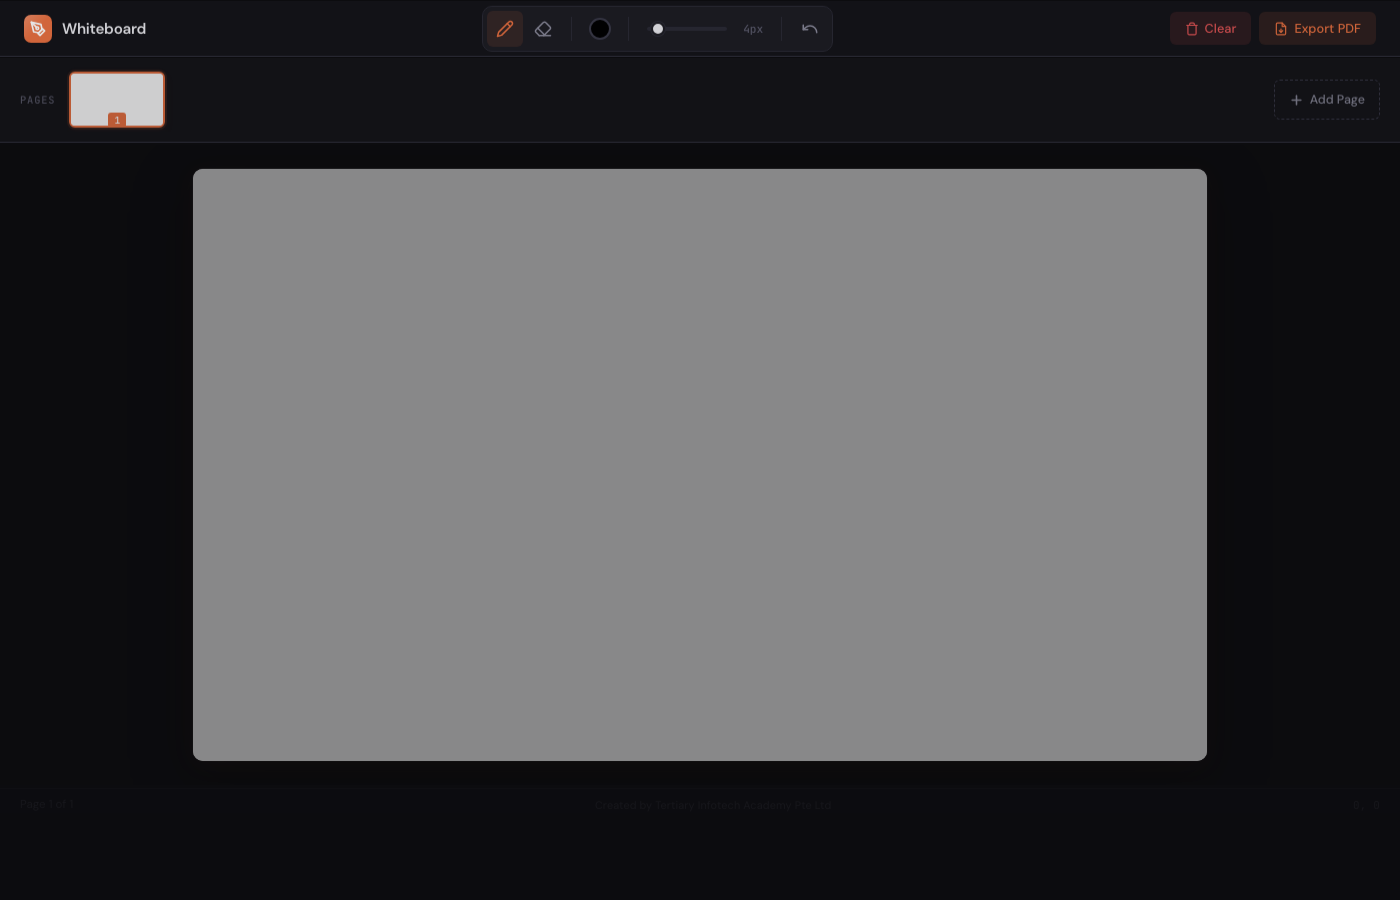
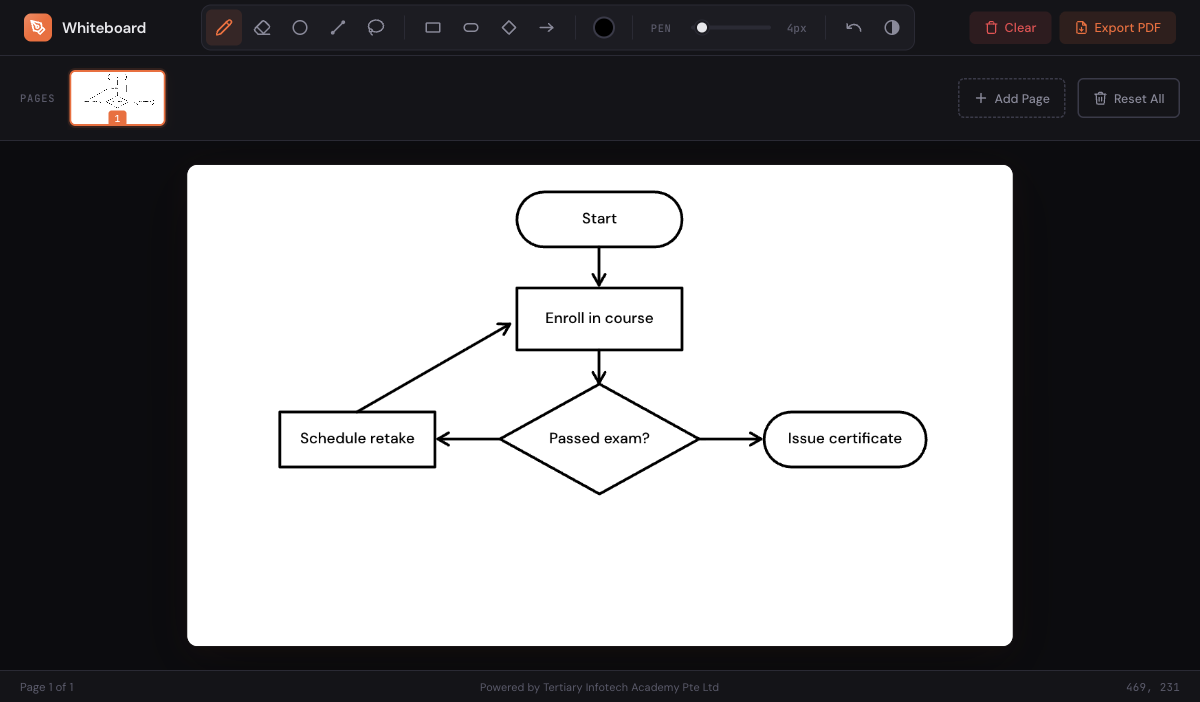
docs: refresh README with new screenshot and feature list
Updates the README to cover the flowchart tools (box, rounded box,
diamond, connector arrows with text labels), line/circle, lasso delete,
eraser size ring, light/dark canvas, and localStorage auto-save. Adds a
fresh preview.png showing a sample flowchart, refreshes the architecture
diagram and keyboard-shortcut table. Also refines the eraser ring to a
dashed circle with mix-blend-mode so it stays visible on both canvases.

diff --git a/styles.css b/styles.css
@@ -634,17 +634,20 @@ canvas.shape-cursor {
   cursor: crosshair;
 }
 
-/* Eraser size indicator — a circle that tracks the cursor over the canvas */
+/* Eraser size indicator — a dashed circle that tracks the cursor and matches
+   the eraser diameter. mix-blend-mode: difference keeps the dashes visible on
+   both the white and black (chalkboard) canvas without any extra logic. */
 .eraser-ring {
   position: absolute;
   display: none;
   z-index: 40;
+  box-sizing: border-box;
   border-radius: 50%;
-  border: 1.5px solid rgba(120, 120, 120, 0.9);
-  background: rgba(180, 180, 180, 0.22);
+  border: 2px dashed #fff;
+  background: transparent;
   pointer-events: none;
   transform: translate(-50%, -50%);
-  box-shadow: 0 0 0 1px rgba(255, 255, 255, 0.5);
+  mix-blend-mode: difference;
 }
 
 .eraser-ring.visible {

diff --git a/README.md b/README.md
@@ -9,7 +9,7 @@
 [![License: MIT](https://img.shields.io/badge/License-MIT-green.svg)](LICENSE)
 [![GitHub Pages](https://img.shields.io/badge/Deploy-GitHub%20Pages-222?logo=github)](https://alfredang.github.io/whiteboard/)
 
-**A minimal, browser-based drawing tool with a dark creative-studio aesthetic. Built for educators and trainers.**
+**A minimal, browser-based whiteboard with freehand drawing and flowchart tools, in a dark creative-studio aesthetic. Built for educators and trainers.**
 
 [Live Demo](https://alfredang.github.io/whiteboard/) · [Report Bug](https://github.com/alfredang/whiteboard/issues) · [Request Feature](https://github.com/alfredang/whiteboard/issues)
 
@@ -21,21 +21,26 @@
 
 ## About
 
-Whiteboard is a lightweight, zero-dependency drawing application designed for classroom and training environments. It runs entirely in the browser with no backend or build step required — just open `index.html` and start drawing.
+Whiteboard is a lightweight, zero-dependency drawing application designed for classroom and training environments. It runs entirely in the browser with no backend or build step required — just open `index.html` and start drawing. Beyond freehand sketching, it includes a set of flowchart tools so you can build labelled diagrams (process boxes, decisions, connectors) right on the board.
 
 ### Key Features
 
 | Feature | Description |
 |---------|-------------|
-| **Multi-page support** | Add, delete, and navigate between pages with live thumbnail previews |
-| **Pen & Eraser** | Drawing tools with keyboard shortcuts (`B` / `E`) |
+| **Freehand pen** | Smooth pressure-friendly drawing with a pencil cursor (`B`) |
+| **Flowchart shapes** | Process box (`R`), rounded terminator (`G`), and decision diamond (`D`) — drag to size, then type a centered, auto-wrapped label |
+| **Connector arrows** | Draw directional arrows to link shapes (`A`) |
+| **Line & circle** | Straight lines (`I`) and ellipses (`O`) with live preview |
+| **Eraser with size ring** | A circle cursor shows the exact eraser size as you erase (`E`) |
+| **Lasso delete** | Encircle any region to wipe it in one stroke (`L`) |
+| **Light / dark canvas** | Toggle between whiteboard and chalkboard modes (`T`) — existing work is inverted to match |
+| **Multi-page support** | Add, delete, navigate, and reset pages with live thumbnail previews |
 | **Color picker** | Full color selection with visual swatch indicator |
-| **Adjustable brush size** | Slider control from 1px to 50px |
+| **Adjustable size** | Per-tool size slider (pen 1–50px, eraser 5–120px) |
 | **Undo** | Per-page undo history (Ctrl/Cmd+Z, up to 30 states) |
 | **PDF export** | All pages exported as a single landscape PDF document |
-| **Page navigation** | PgUp/PgDn or Ctrl+Arrow keys to switch pages |
+| **Auto-save** | Pages persist to `localStorage` across refreshes |
 | **Touch support** | Full touch input for tablets and mobile devices |
-| **Coordinate tracking** | Real-time cursor position in the status bar |
 | **Responsive layout** | Adapts to any screen size with smooth animations |
 
 ## Tech Stack
@@ -52,37 +57,39 @@ Whiteboard is a lightweight, zero-dependency drawing application designed for cl
 ## Architecture
 
 ```
-┌─────────────────────────────────────────────────┐
-│                   Browser                       │
-│                                                 │
-│  ┌──────────┐  ┌────────────┐  ┌────────────┐  │
-│  │  Header   │  │  Page Strip │  │ Status Bar │  │
-│  │  Toolbar  │  │  Thumbnails │  │  Coords    │  │
-│  └────┬─────┘  └──────┬─────┘  └────────────┘  │
-│       │               │                         │
-│       ▼               ▼                         │
-│  ┌─────────────────────────┐                    │
-│  │    HTML5 Canvas (1200×700)                   │
-│  │    ├── Drawing Engine    │                    │
-│  │    ├── Undo Stack (×30)  │                    │
-│  │    └── Page State Mgmt   │                    │
-│  └────────────┬────────────┘                    │
-│               │                                 │
-│               ▼                                 │
-│  ┌─────────────────────────┐                    │
-│  │   jsPDF (CDN)           │                    │
-│  │   └── Multi-page export │                    │
-│  └─────────────────────────┘                    │
-└─────────────────────────────────────────────────┘
+┌───────────────────────────────────────────────────────┐
+│                        Browser                          │
+│                                                         │
+│  ┌──────────┐   ┌─────────────┐   ┌────────────┐        │
+│  │  Header  │   │  Page Strip │   │ Status Bar │        │
+│  │  Toolbar │   │  Thumbnails │   │  Coords    │        │
+│  └────┬─────┘   └──────┬──────┘   └────────────┘        │
+│       │                │                                │
+│       ▼                ▼                                │
+│  ┌──────────────────────────────────────────┐          │
+│  │        HTML5 Canvas (1200×700)            │          │
+│  │  ├── Freehand / Line / Circle             │          │
+│  │  ├── Flowchart shapes + text labels       │          │
+│  │  ├── Eraser (+ size ring) / Lasso delete  │          │
+│  │  ├── Snapshot preview + Undo stack (×30)  │          │
+│  │  └── Per-page state                       │          │
+│  └───────┬───────────────────────┬───────────┘          │
+│          │                       │                      │
+│          ▼                       ▼                      │
+│  ┌────────────────┐     ┌──────────────────┐            │
+│  │  localStorage  │     │   jsPDF (CDN)    │            │
+│  │  auto-save     │     │  multi-page PDF  │            │
+│  └────────────────┘     └──────────────────┘            │
+└───────────────────────────────────────────────────────┘
 ```
 
 ## Project Structure
 
 ```
 whiteboard/
-├── index.html          # Main HTML with toolbar, canvas, page strip, and status bar
-├── styles.css          # Dark theme, responsive layout, animations
-├── whiteboard.js       # Drawing engine, page management, undo, PDF export
+├── index.html          # Toolbar, canvas, page strip, status bar, text editor overlay
+├── styles.css          # Dark/light themes, responsive layout, animations, cursors
+├── whiteboard.js       # Drawing engine, shapes & labels, pages, undo, PDF export
 ├── preview.png         # Screenshot for README
 └── README.md
 ```
@@ -120,11 +127,21 @@ Or use the live version: **[https://alfredang.github.io/whiteboard/](https://alf
 
 | Shortcut | Action |
 |----------|--------|
-| `B` | Select Pen tool |
-| `E` | Select Eraser tool |
+| `B` | Pen |
+| `E` | Eraser |
+| `L` | Lasso delete |
+| `I` | Line |
+| `O` | Circle |
+| `R` | Process box |
+| `G` | Rounded box |
+| `D` | Decision diamond |
+| `A` | Connector arrow |
+| `T` | Toggle light / dark canvas |
 | `Ctrl/Cmd + Z` | Undo |
 | `PgUp` / `Ctrl + ←` | Previous page |
 | `PgDn` / `Ctrl + →` | Next page |
+
+> **Tip:** After drawing a box, rounded box, or diamond, a text field appears inside it — type your label and press `Enter` (`Shift+Enter` for a new line, `Esc` to leave it blank).
 
 ## Deployment
 